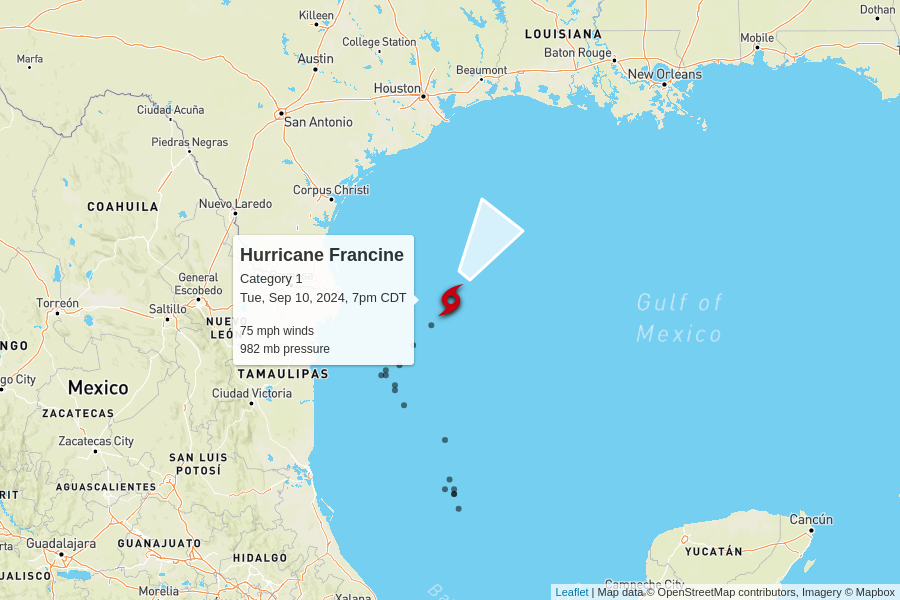
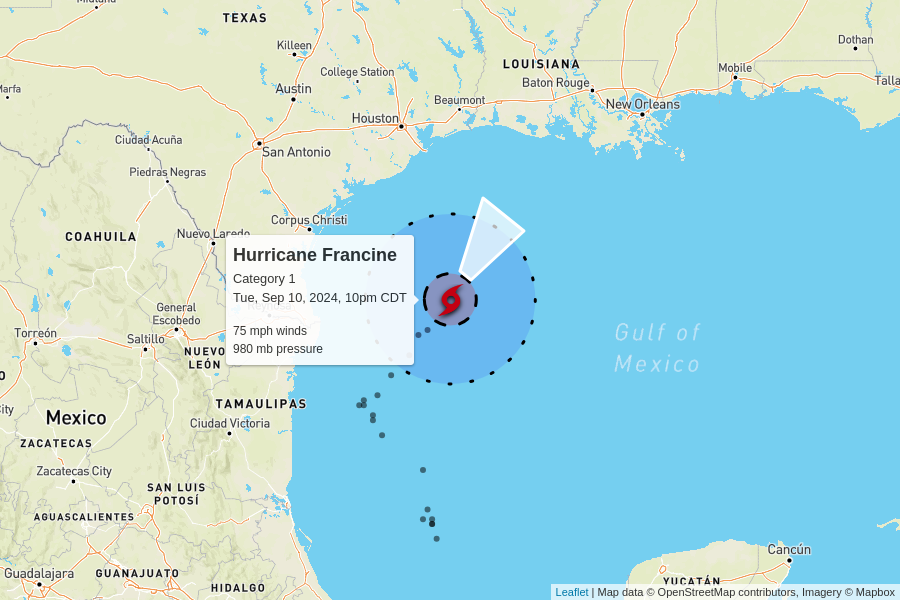
automatic update

diff --git a/docs/index.html b/docs/index.html
@@ -102,7 +102,7 @@
         <td colspan="6" class="storm category-1" >
           <h2>
             Hurricane Francine - Category 1
-            <p class="updated">last updated <span data-time>2024-09-11T00:00:00.000Z</span></p>
+            <p class="updated">last updated <span data-time>2024-09-11T03:00:00.000Z</span></p>
           </h2>
         </td>
       </tr>
@@ -117,8 +117,8 @@
       </tr>
       <tr>
         <td class="spacer"></td>
-        <td>75 mph<br>+10 mph since last update</td>
-        <td>982 mb<br>-5 mb since last update</td>
+        <td>75 mph<br>0 mph since last update</td>
+        <td>980 mb<br>-2 mb since last update</td>
         <td>
           10 mph to the northeast
           <br/>
